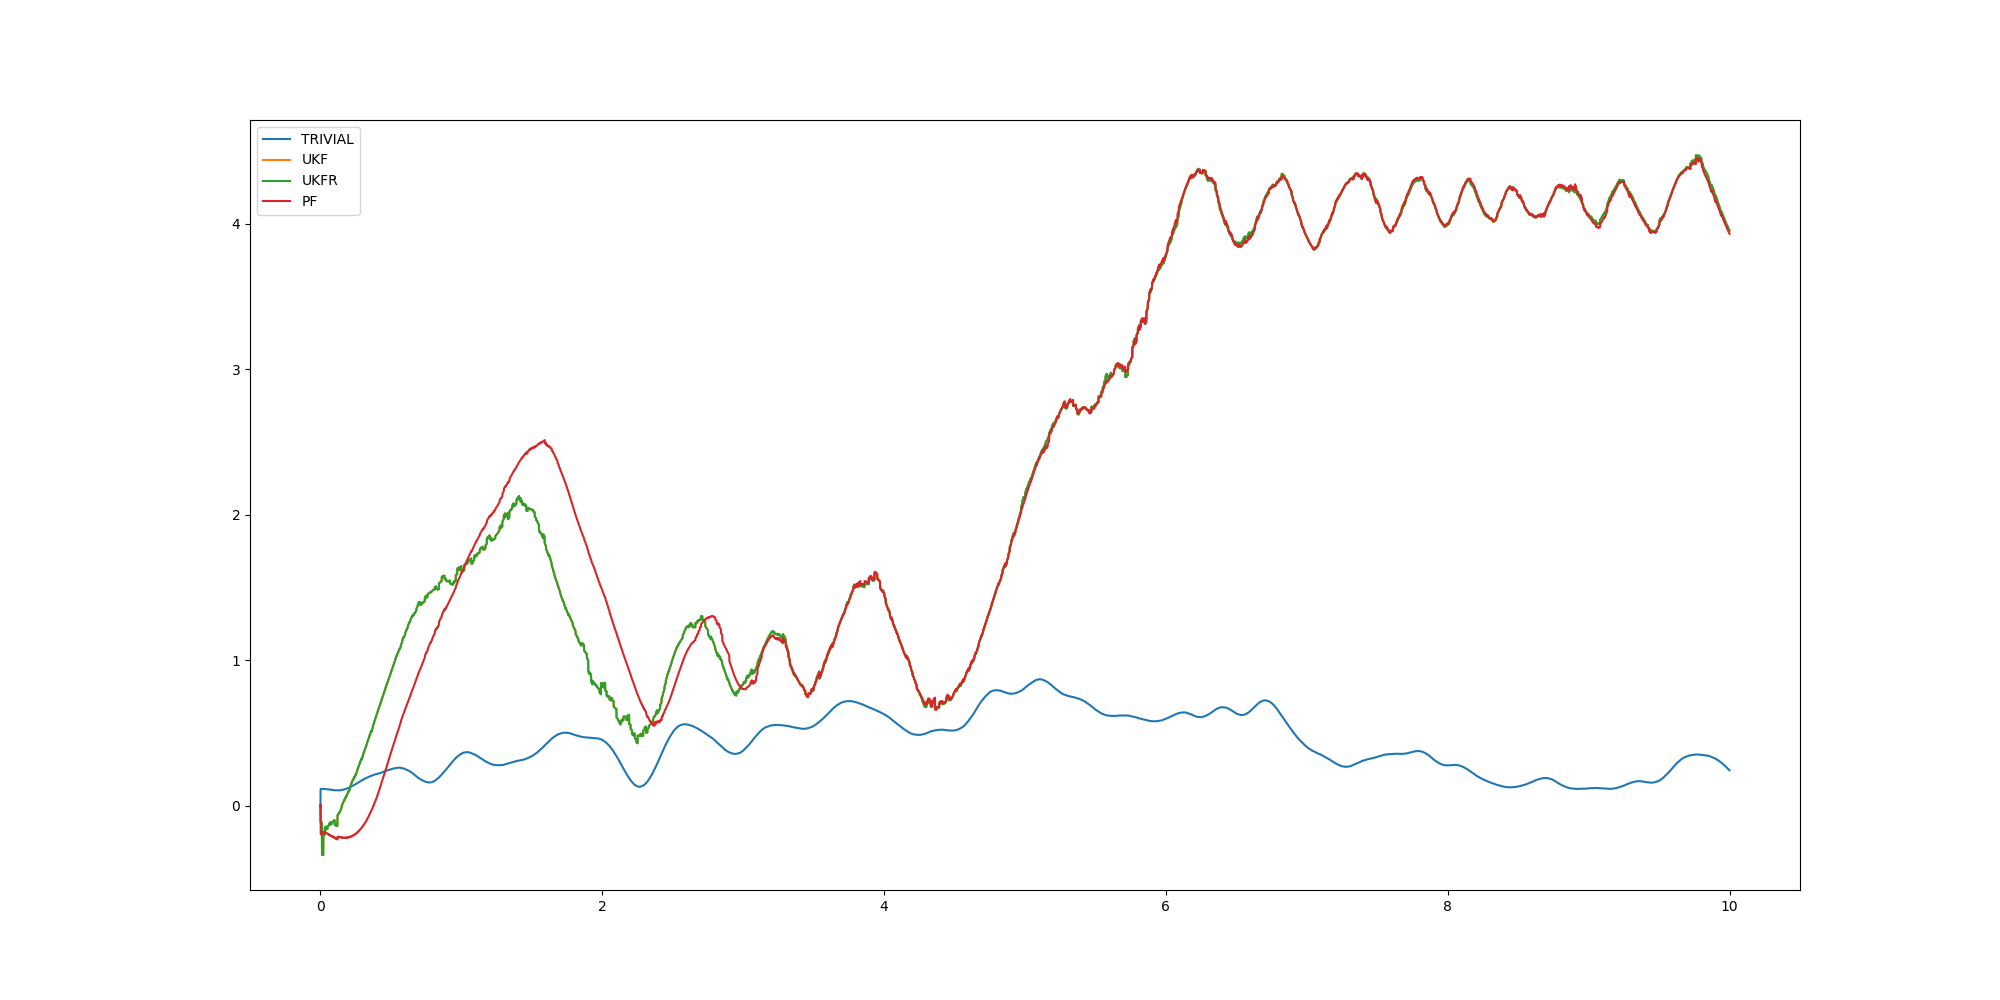
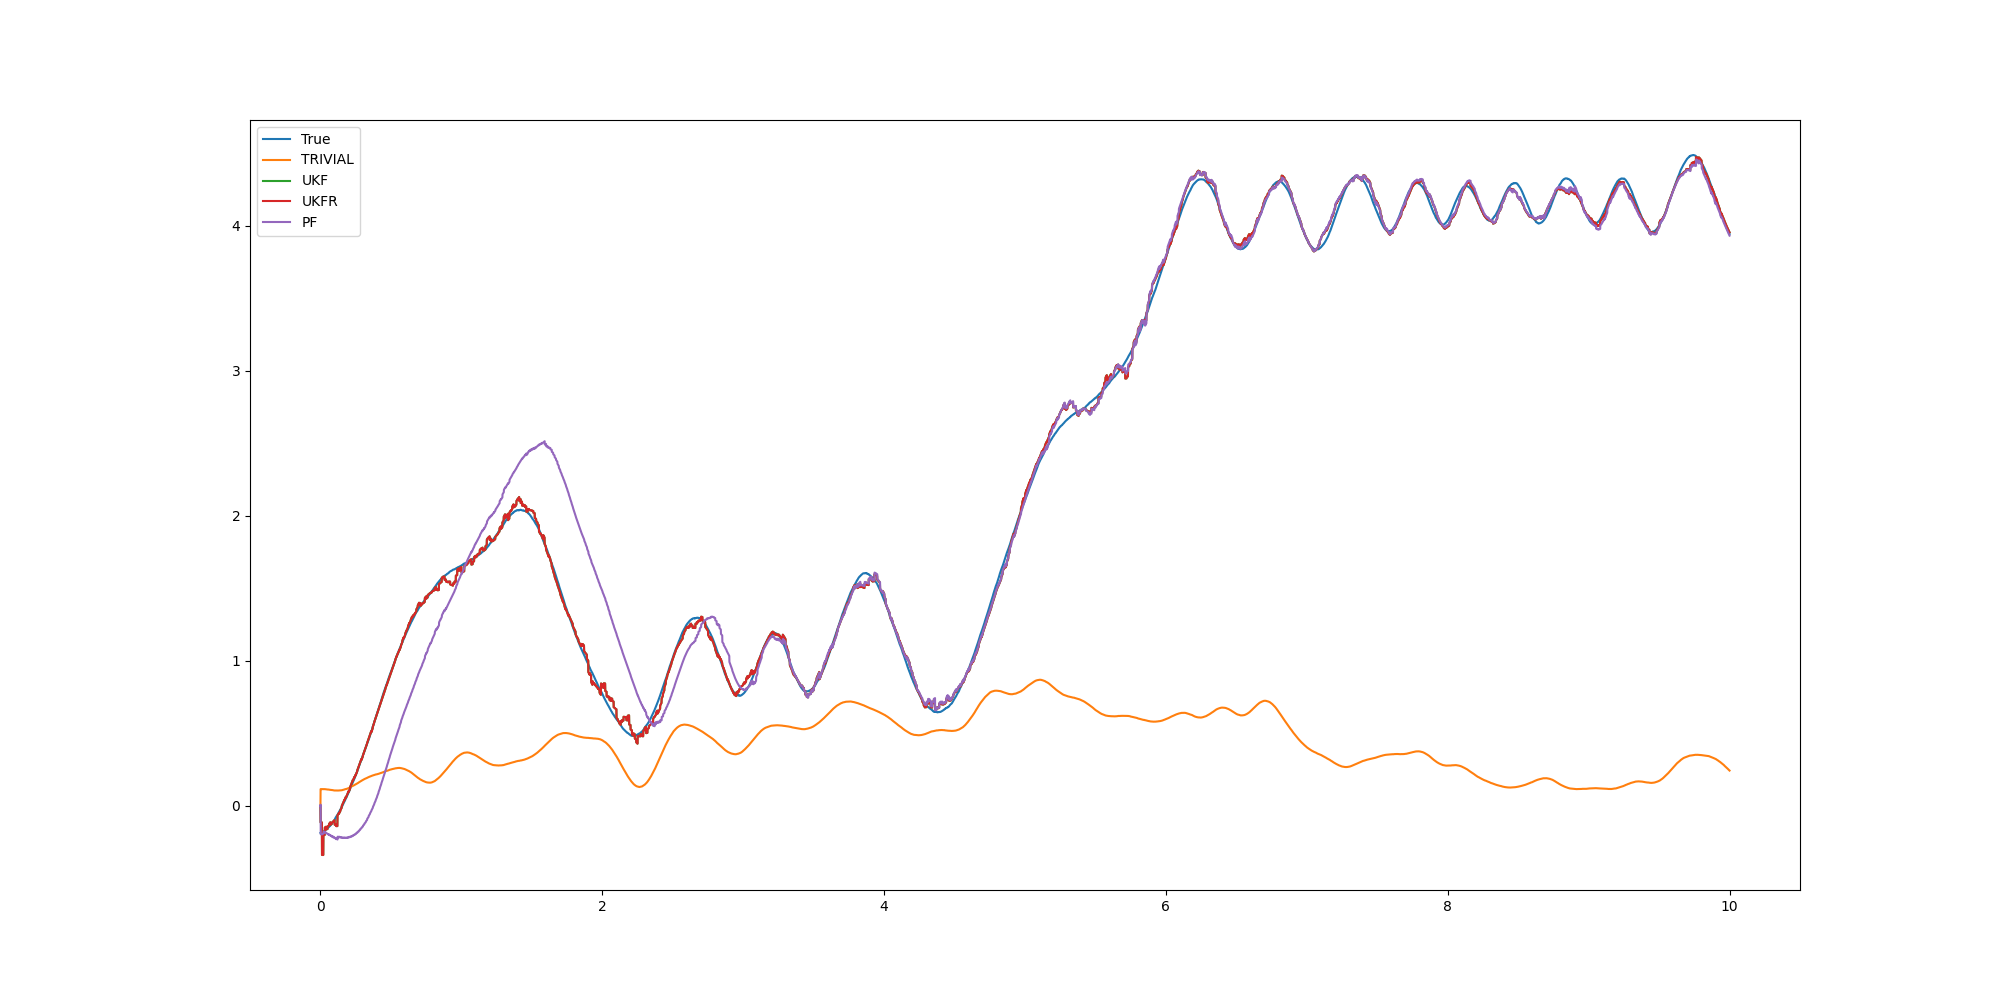
.

diff --git a/scripts/stats.py b/scripts/stats.py
@@ -68,9 +68,9 @@ def example() -> None:
         df = pd.read_csv(os.path.join("stats", f"example_x_{i}.csv"))
 
         plt.figure(figsize=(20, 10))
+        plt.plot(df["t"], df["x"], label=True)
         for estimator in ESTIMATORS:
             plt.plot(df["t"], df[estimator], label=estimator.upper())
-
         plt.legend()
 
     if not os.path.exists(os.path.join("img", "example")):
